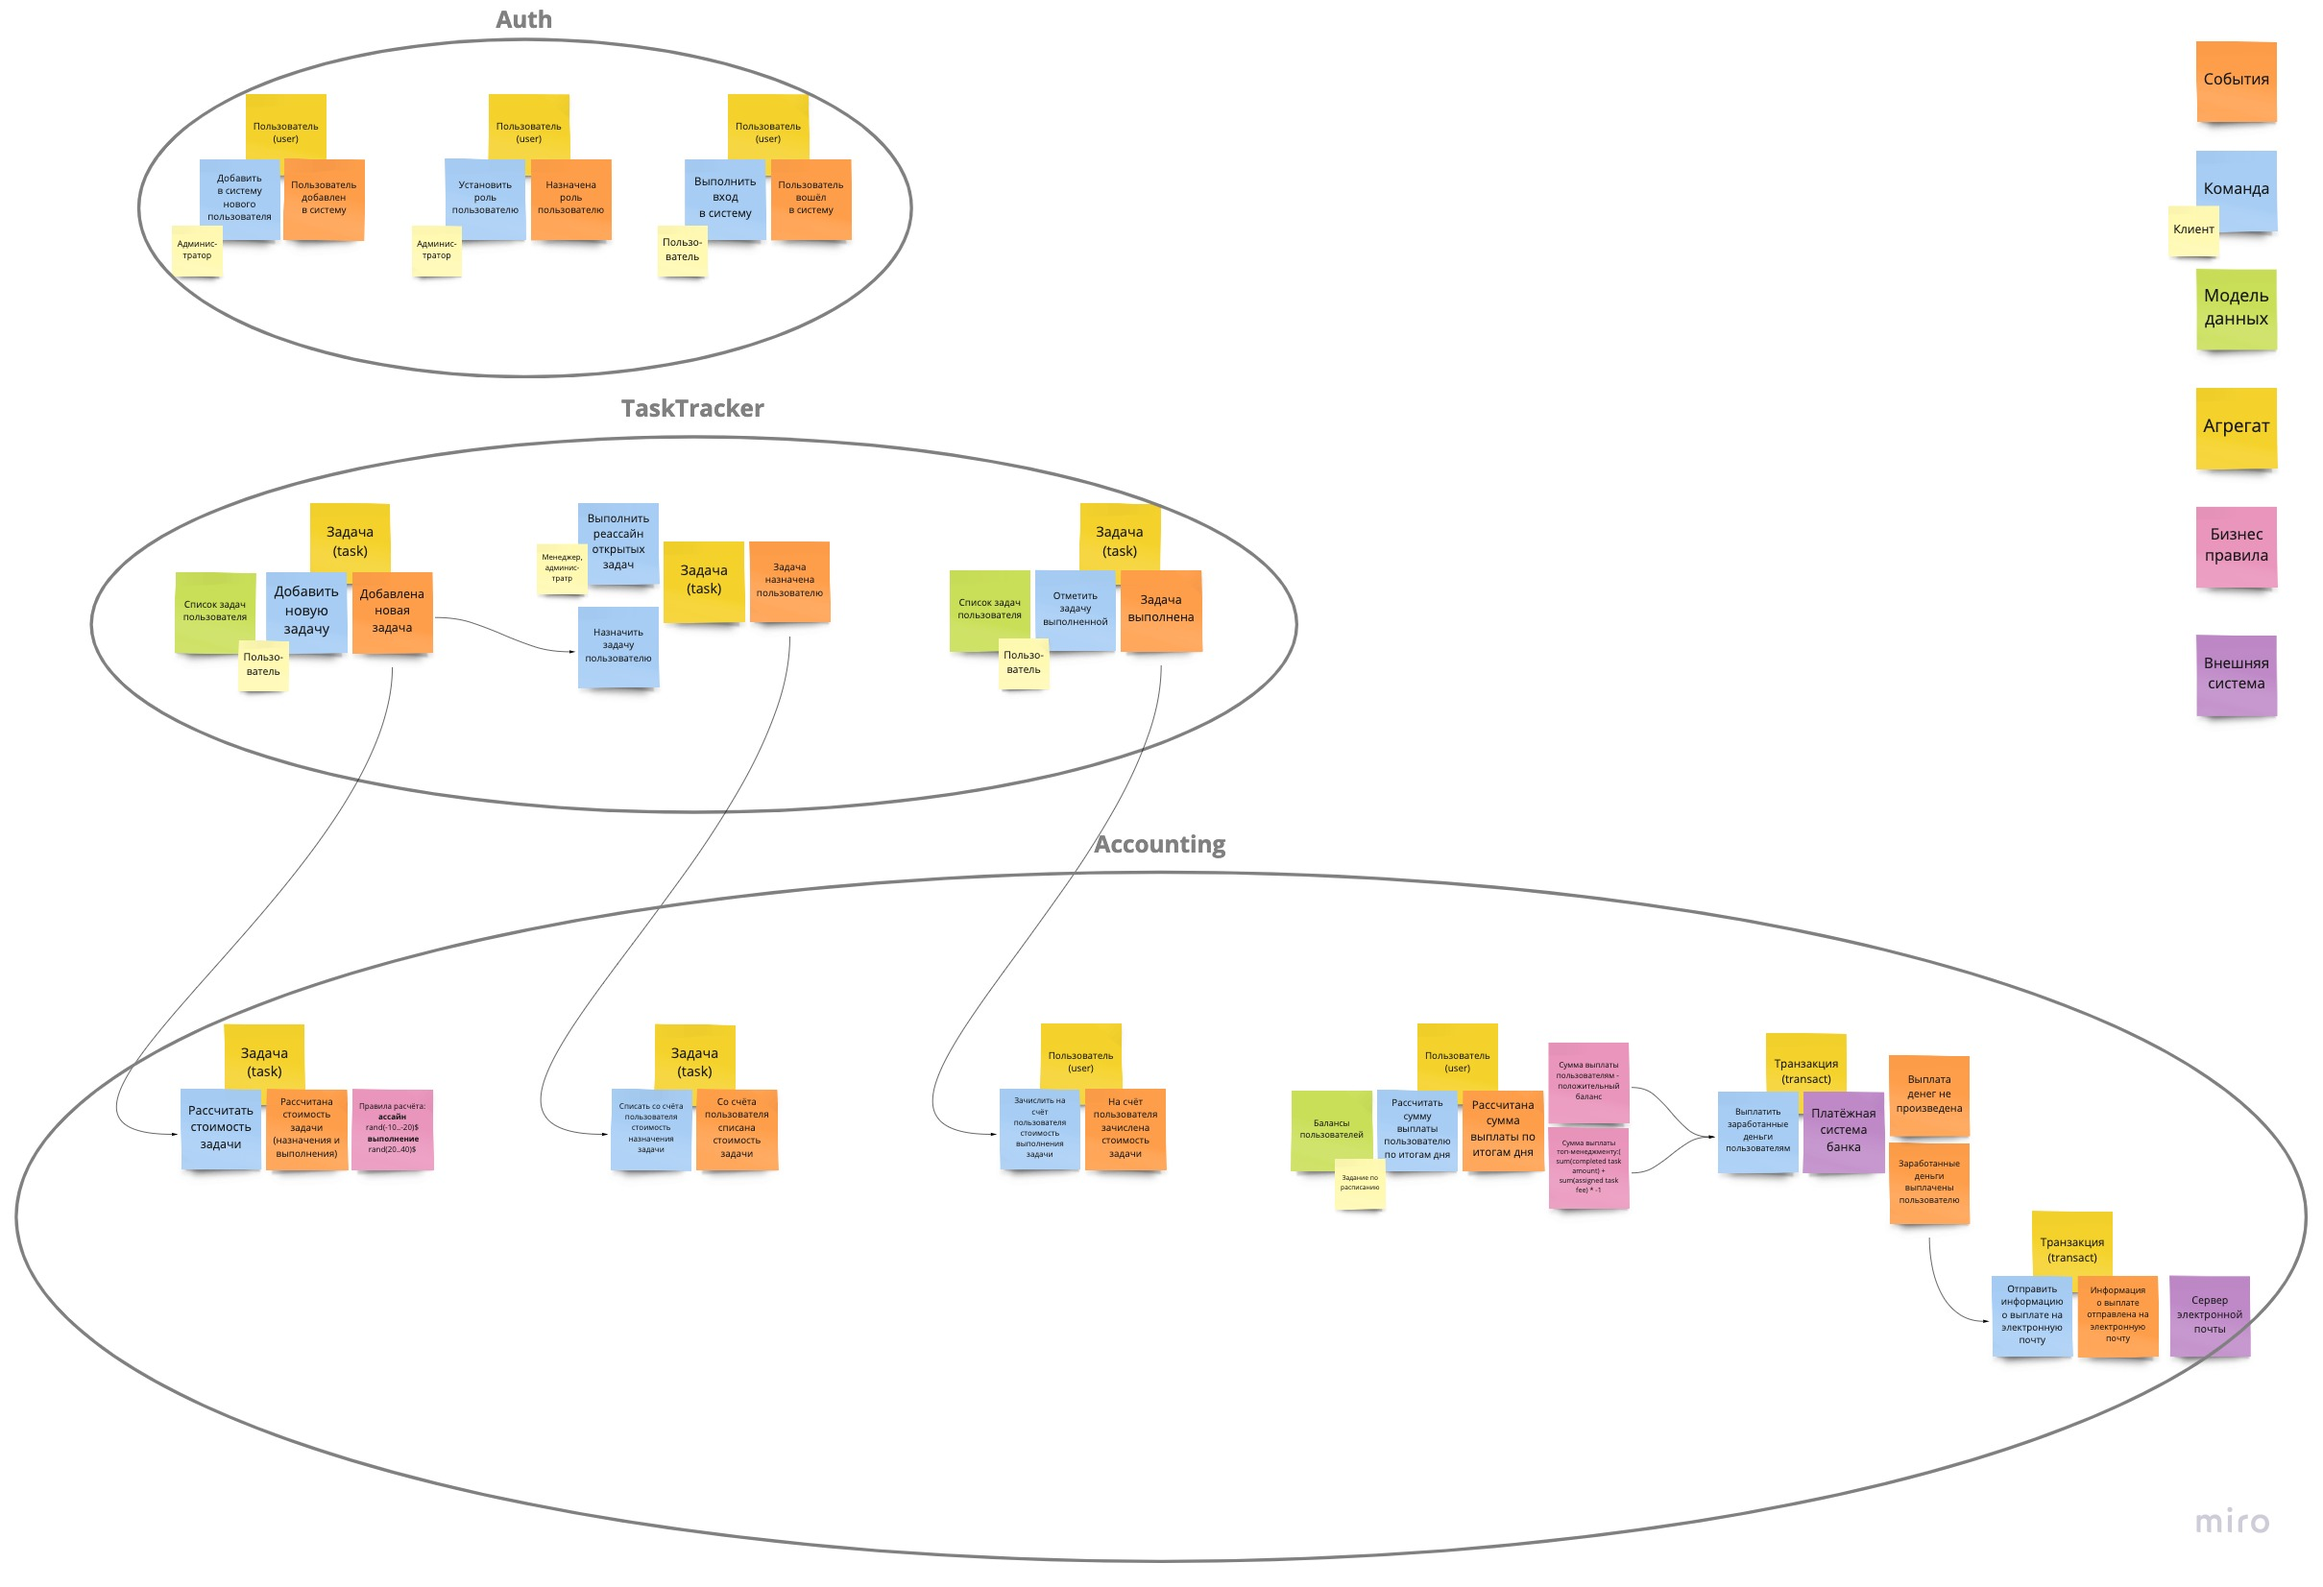
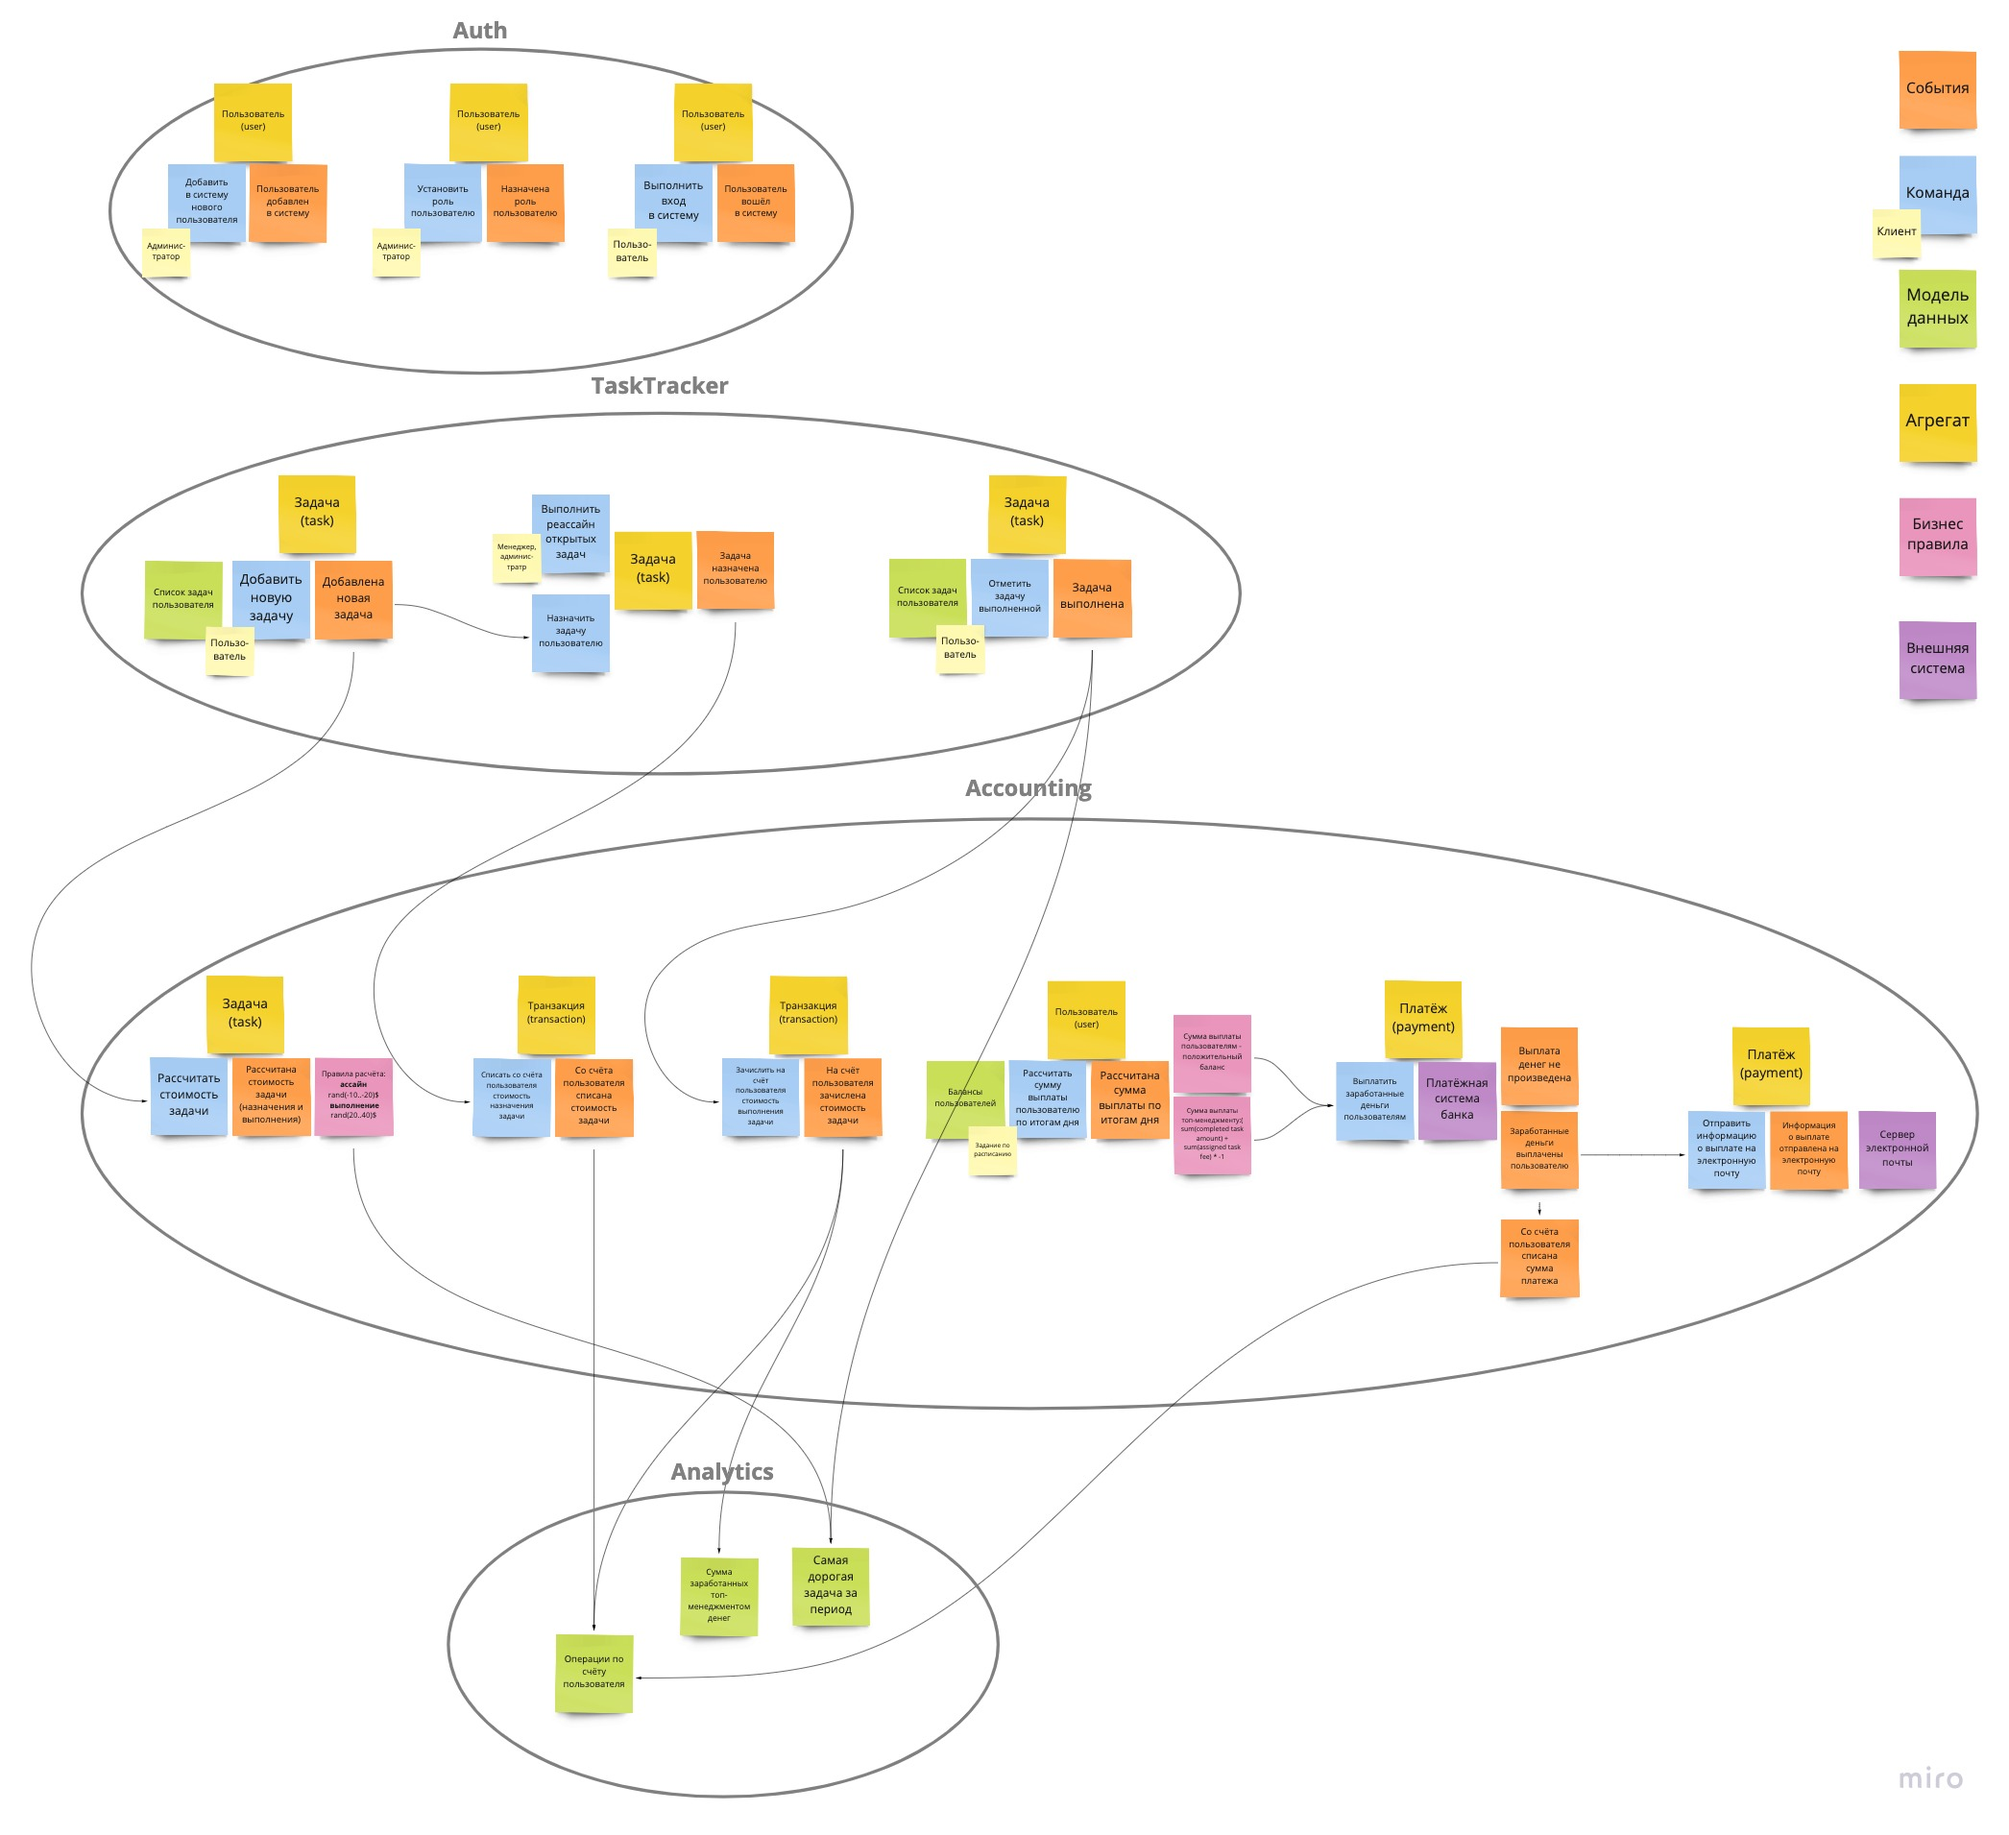
Переделал ES, DataModel, Domain, Services

diff --git a/README.md b/README.md
@@ -10,15 +10,15 @@
 
 ## **Domains**
 
-![Domains](/arch/aTES-Domains.png "Domains")
+![Domains](/arch/aTES-Domains.jpg "Domains")
 
 ## **Data Model**
 
-![Data Model](/arch/aTES-DataModel.png "Data Model")
+![Data Model](/arch/aTES-DataModel.jpg "Data Model")
 
 ## **Services**
 
-![Services](/arch/aTES-Services.png "Services")
+![Services](/arch/aTES-Services.jpg "Services")
 
 ## **Контекст к домашней работе**
 
